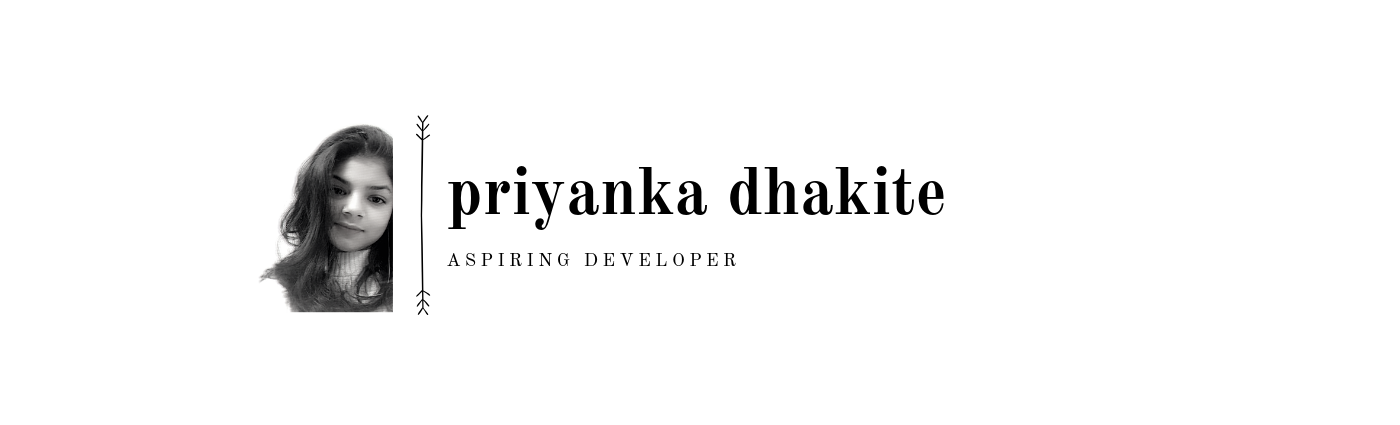
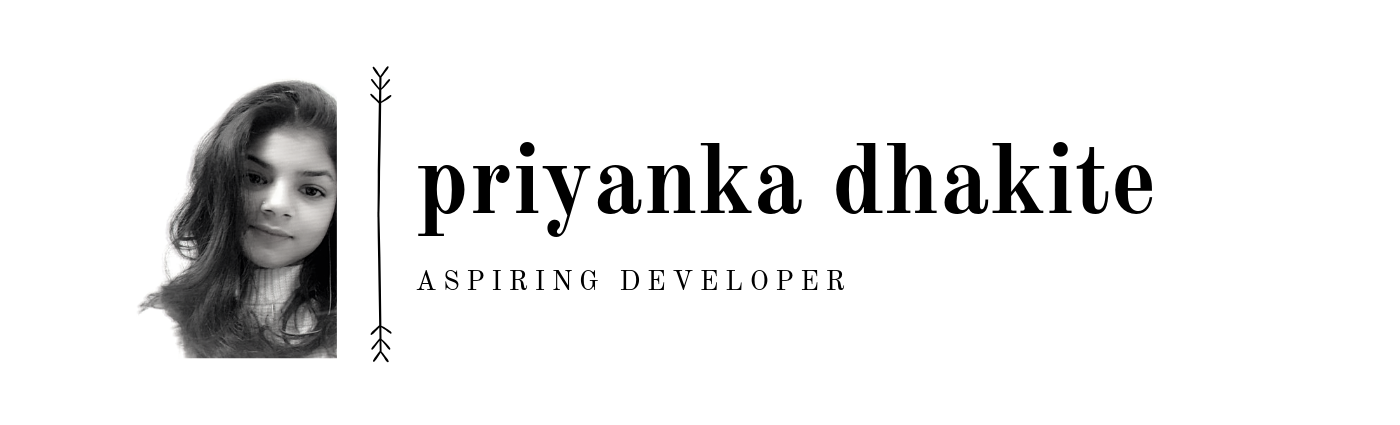
Updates

Changed region(s): [[0.0921, 0.1529, 0.8293, 0.8565]]

diff --git a/index.html b/index.html
@@ -22,7 +22,7 @@
 	<div class="media-body">
         
 		<div align="center" style="padding-left: 25px">
-			<img src="PriyankaDhakite.github.io/Title.png" class="img-fluid" style="width: 100%; height: 100%"/>
+			<img src="PriyankaDhakite.github.io/Title.png" class="img-fluid" style="width: 60%; height: 60%"/>
 		</div>
 
     </div>
